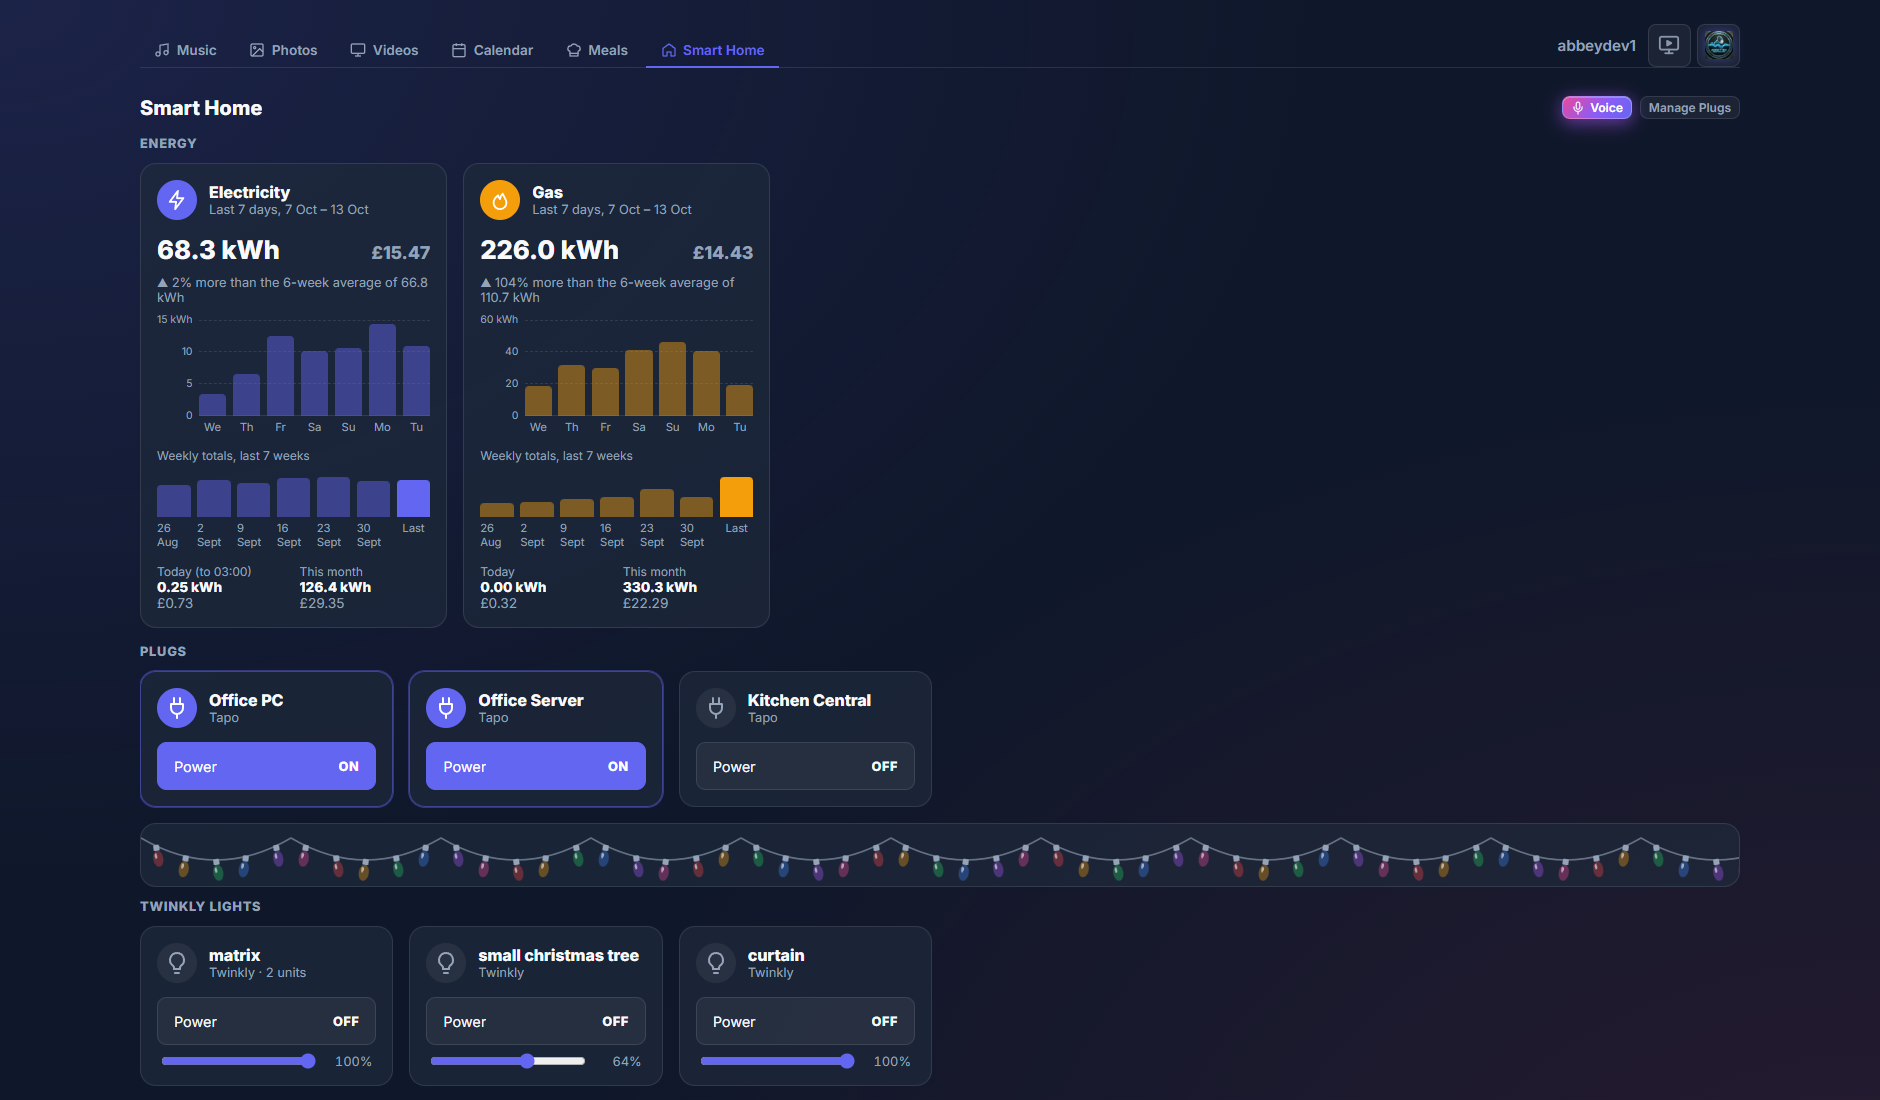
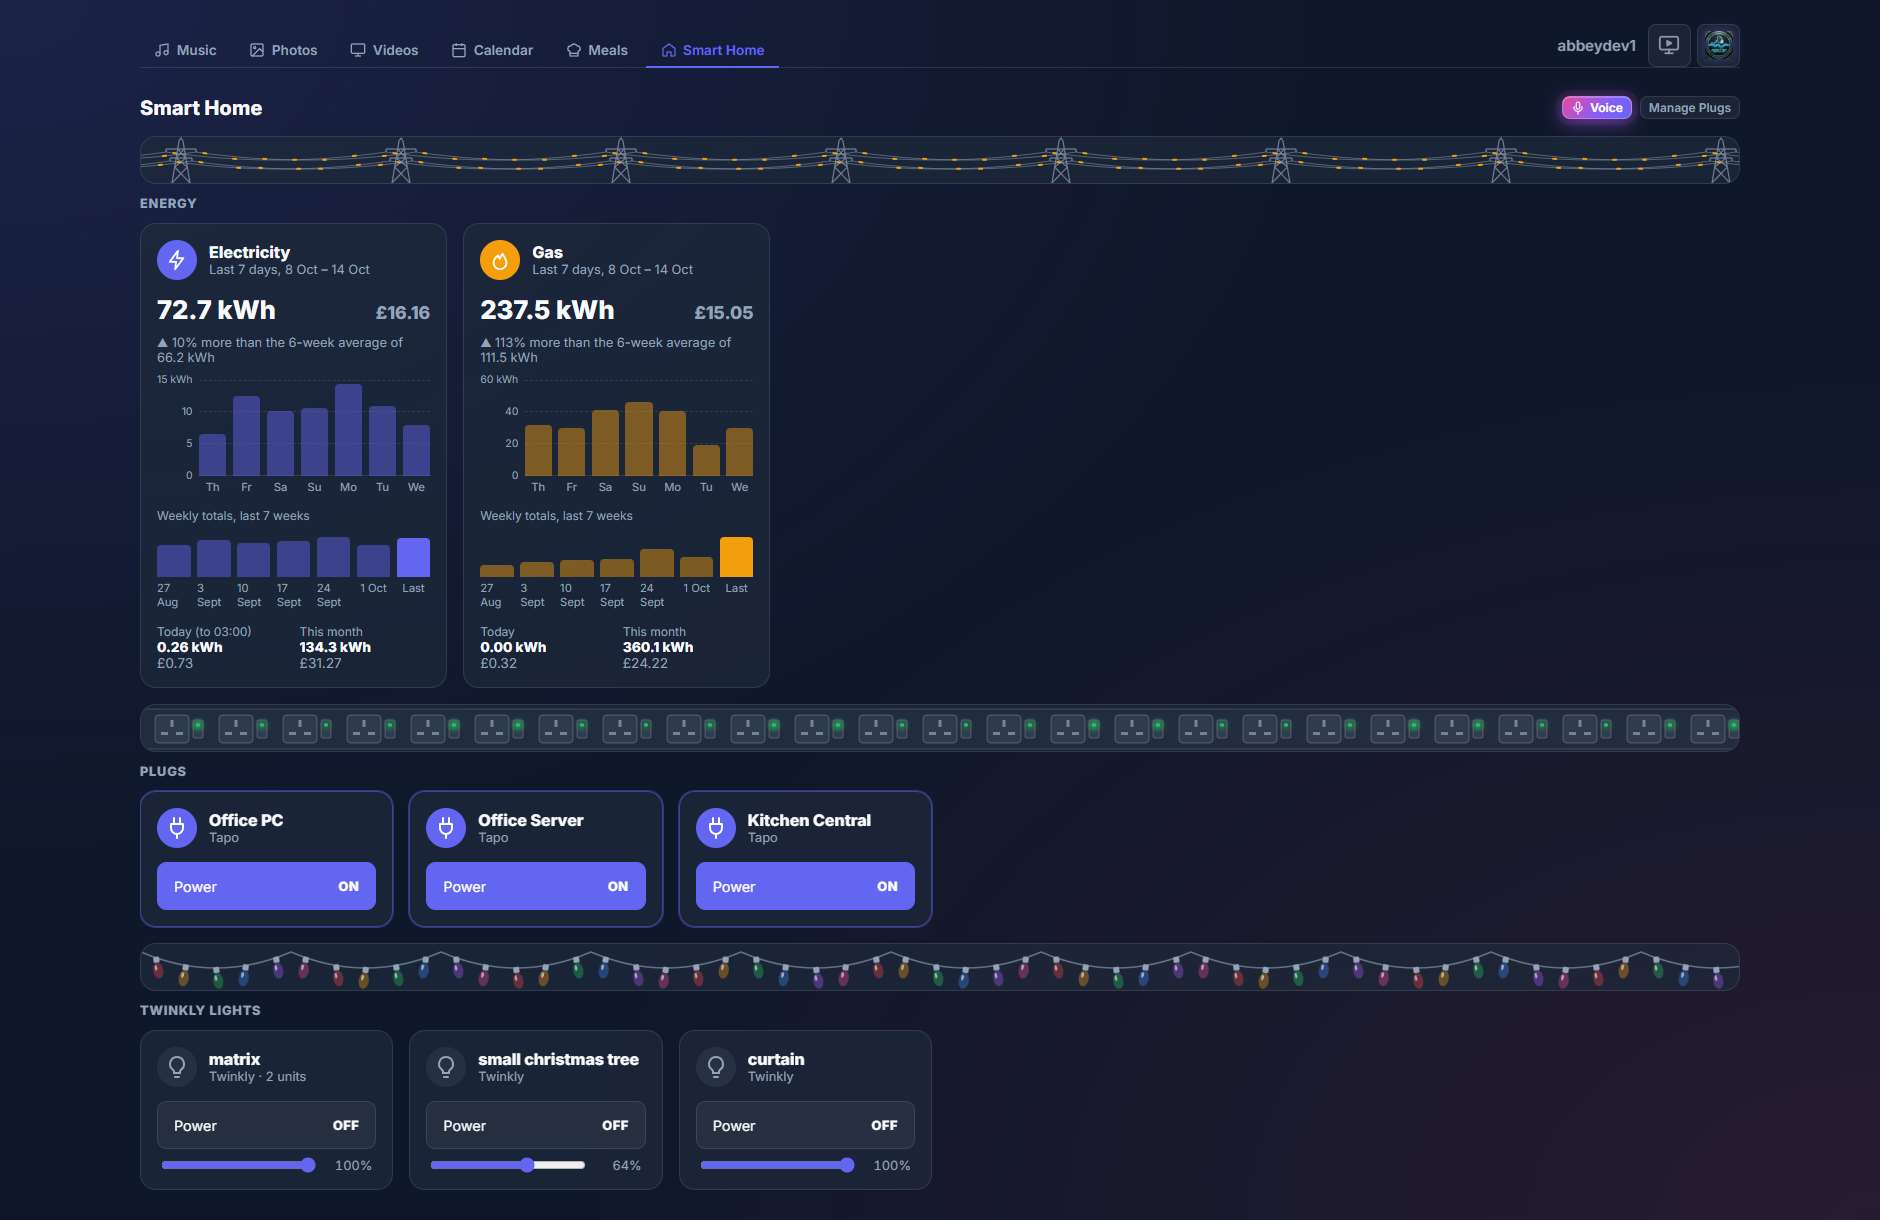
smart home page prettied up a bit.

diff --git a/public/app.js b/public/app.js
@@ -9885,9 +9885,10 @@ function plugStatusLine(p) {
 
 // A string of coloured bulbs hanging from a drooping wire, drawn wide and cropped to the section's width.
 // Each 150-unit span of wire is a quadratic curve whose control point sits midway, so x is linear in t.
+const BANNER_HEIGHT = 48;
 const LIGHT_COLOURS = ['#ef4444', '#f59e0b', '#22c55e', '#3b82f6', '#a855f7', '#ec4899'];
 function lightsBannerSvg() {
-    const width = 2400, span = 150, top = 14, sag = 22;
+    const width = 2400, span = 150, top = 8, sag = 16;
     const wireY = x => { const t = (x % span) / span; return top + 4 * sag * t * (1 - t); };
     let wire = `M0 ${top}`;
     for (let x = 0; x < width; x += span) wire += ` Q${x + span / 2} ${top + 2 * sag} ${x + span} ${top}`;
@@ -9901,9 +9902,49 @@ function lightsBannerSvg() {
             <ellipse class="bulb" cx="${x}" cy="${y + 13}" rx="5" ry="8" fill="${colour}"></ellipse>
             <ellipse cx="${x - 1.8}" cy="${y + 10}" rx="1.3" ry="2.6" fill="#fff" opacity="0.55"></ellipse></g>`;
     }
-    return `<svg viewBox="0 0 ${width} 64" height="64" width="100%" preserveAspectRatio="xMinYMid slice">
+    return `<svg viewBox="0 0 ${width} ${BANNER_HEIGHT}" height="${BANNER_HEIGHT}" width="100%" preserveAspectRatio="xMinYMid slice">
         <defs><filter id="bulb-glow-blur" x="-1" y="-1" width="3" height="3"><feGaussianBlur stdDeviation="4"></feGaussianBlur></filter></defs>
         <path class="lights-wire" d="${wire}"></path>${bulbs}</svg>`;
+}
+
+// A power strip of UK sockets, each with a rocker switch whose LED glows while any plug is on.
+function plugsBannerSvg() {
+    const width = 2400, pitch = 64;
+    let sockets = '';
+    for (let x = 14, n = 0; x < width; x += pitch, n++) {
+        const delay = -((n * 0.61) % 3).toFixed(2);
+        sockets += `<g transform="translate(${x} 10)">
+            <rect class="socket" width="34" height="28" rx="4"></rect>
+            <rect class="socket-slot" x="15.5" y="5" width="3" height="7" rx="0.5"></rect>
+            <rect class="socket-slot" x="6" y="17" width="7" height="3" rx="0.5"></rect>
+            <rect class="socket-slot" x="21" y="17" width="7" height="3" rx="0.5"></rect>
+            <rect class="socket" x="38" y="5" width="10" height="18" rx="2"></rect>
+            <circle class="socket-led-glow" cx="43" cy="10" r="5" style="animation-delay:${delay}s"></circle>
+            <circle class="socket-led" cx="43" cy="10" r="1.8"></circle></g>`;
+    }
+    return `<svg viewBox="0 0 ${width} ${BANNER_HEIGHT}" height="${BANNER_HEIGHT}" width="100%" preserveAspectRatio="xMinYMid slice">
+        <defs><filter id="socket-led-blur" x="-1" y="-1" width="3" height="3"><feGaussianBlur stdDeviation="2.5"></feGaussianBlur></filter></defs>
+        <rect class="plug-strip" x="-10" y="4" width="${width + 20}" height="40" rx="8"></rect>${sockets}</svg>`;
+}
+
+// A line of electricity pylons with current pulsing along the sagging cables between them.
+function energyBannerSvg() {
+    const width = 2400, pitch = 220, ground = 46, sag = 8;
+    const arms = [[-15, 12], [15, 12], [-11, 21], [11, 21]];
+    // Legs taper from 9 units either side at the ground to 2 at the top (y = 4)
+    const leg = (x, y, side) => x + side * (2 + 7 * (y - 4) / (ground - 4));
+    let towers = '', wires = '';
+    for (let x = 40; x < width + pitch; x += pitch) {
+        const brace = (y1, y2) => `M${leg(x, y1, -1)} ${y1}L${leg(x, y2, 1)} ${y2}M${leg(x, y1, 1)} ${y1}L${leg(x, y2, -1)} ${y2}`;
+        towers += `<path d="M${leg(x, ground, -1)} ${ground}L${x - 2} 4L${x} 1L${x + 2} 4L${leg(x, ground, 1)} ${ground}
+            M${x - 15} 12H${x + 15}M${x - 11} 21H${x + 11}${brace(12, 21)}${brace(21, 30)}${brace(30, ground)}
+            ${arms.map(([dx, y]) => `M${x + dx} ${y}v3`).join('')}"></path>`;
+        for (const [dx, y] of arms) wires += `M${x - pitch + dx} ${y + 3}Q${x - pitch / 2 + dx} ${y + 3 + 2 * sag} ${x + dx} ${y + 3}`;
+    }
+    return `<svg viewBox="0 0 ${width} ${BANNER_HEIGHT}" height="${BANNER_HEIGHT}" width="100%" preserveAspectRatio="xMinYMid slice">
+        <path class="energy-ground" d="M0 ${ground + 0.5}H${width}"></path>
+        <path class="energy-wire" d="${wires}"></path><path class="energy-flow" d="${wires}"></path>
+        <g class="energy-pylon">${towers}</g></svg>`;
 }
 
 function renderSmartHome() {
@@ -9915,6 +9956,9 @@ function renderSmartHome() {
     const lights = shown.filter(p => p.type === 'twinkly');
     const plugs = shown.filter(p => p.type !== 'twinkly');
     document.getElementById('smarthome-plugs').hidden = !plugs.length;
+    const plugsBanner = document.getElementById('smarthome-plugs-banner');
+    if (plugs.length && !plugsBanner.innerHTML) plugsBanner.innerHTML = plugsBannerSvg();
+    plugsBanner.classList.toggle('on', plugs.some(p => p.outlets.some(o => o.on)));
     document.getElementById('smarthome-grid').innerHTML = plugs.map(plugCard).join('');
     document.getElementById('smarthome-lights').hidden = !lights.length;
     document.getElementById('smarthome-lights-grid').innerHTML = lights.map(plugCard).join('');
@@ -9954,6 +9998,8 @@ function renderEnergy(data) {
     const grid = document.getElementById('smarthome-energy-grid');
     section.hidden = !data.configured;
     if (!data.configured) return;
+    const banner = document.getElementById('smarthome-energy-banner');
+    if (!banner.innerHTML) banner.innerHTML = energyBannerSvg();
     if (data.error) {
         grid.innerHTML = `<div class="plug-card unavailable"><div class="plug-card-status">Couldn't get meter readings: ${escapeHtml(data.error)}</div>
             <button type="button" class="btn-control btn-small" onclick="openPlugSettings()">Check Bright Login</button></div>`;

diff --git a/public/style.css b/public/style.css
@@ -8016,18 +8016,100 @@ input:checked+.slider:before {
     color: var(--text);
 }
 
-/* Twinkly: a string of coloured bulbs above the lights, glowing and twinkling while any are on */
-.lights-banner {
-    height: 64px;
+/* Decorative strips drawn above each smart home section (see the *BannerSvg functions in app.js) */
+.smarthome-banner {
+    height: 48px;
     overflow: hidden;
     border-radius: 1rem;
     background: var(--card-bg);
     border: 1px solid var(--card-border);
 }
 
-.lights-banner svg {
+.smarthome-banner svg {
     display: block;
 }
+
+/* Energy: pylons with current pulsing along the cables */
+.energy-pylon,
+.energy-wire,
+.energy-ground {
+    fill: none;
+    stroke: var(--text-muted);
+    stroke-linejoin: round;
+}
+
+.energy-pylon {
+    stroke-width: 1.2;
+    opacity: 0.7;
+}
+
+.energy-wire {
+    stroke-width: 1;
+    opacity: 0.5;
+}
+
+.energy-ground {
+    stroke-width: 1;
+    opacity: 0.25;
+}
+
+.energy-flow {
+    fill: none;
+    stroke: #f59e0b;
+    stroke-width: 2;
+    stroke-linecap: round;
+    stroke-dasharray: 3 57;
+    animation: energy-flow 1.6s linear infinite;
+}
+
+@keyframes energy-flow {
+    to { stroke-dashoffset: -60; }
+}
+
+/* Plugs: a power strip whose switch LEDs glow while any plug is on */
+.plug-strip {
+    fill: var(--text-muted);
+    fill-opacity: 0.06;
+    stroke: var(--text-muted);
+    stroke-opacity: 0.3;
+}
+
+.plugs-banner .socket {
+    fill: var(--text-muted);
+    fill-opacity: 0.12;
+    stroke: var(--text-muted);
+    stroke-opacity: 0.4;
+}
+
+.plugs-banner .socket-slot {
+    fill: var(--text-muted);
+    opacity: 0.7;
+}
+
+.plugs-banner .socket-led {
+    fill: var(--text-muted);
+    opacity: 0.4;
+    transition: fill 0.4s, opacity 0.4s;
+}
+
+.plugs-banner .socket-led-glow {
+    fill: #22c55e;
+    filter: url(#socket-led-blur);
+    opacity: 0;
+    transition: opacity 0.4s;
+}
+
+.plugs-banner.on .socket-led {
+    fill: #22c55e;
+    opacity: 1;
+}
+
+.plugs-banner.on .socket-led-glow {
+    opacity: 0.8;
+    animation: bulb-twinkle 3s ease-in-out infinite;
+}
+
+/* Twinkly: a string of coloured bulbs above the lights, glowing and twinkling while any are on */
 
 .lights-wire {
     fill: none;
@@ -8066,7 +8148,9 @@ input:checked+.slider:before {
 }
 
 @media (prefers-reduced-motion: reduce) {
-    .lights-banner.on .bulb-glow {
+    .lights-banner.on .bulb-glow,
+    .plugs-banner.on .socket-led-glow,
+    .energy-flow {
         animation: none;
     }
 }

diff --git a/public/index.html b/public/index.html
@@ -581,15 +581,17 @@
             </div>
             <div id="smarthome-status" class="smarthome-status"></div>
             <div id="smarthome-energy" class="smarthome-section" hidden>
+                <div id="smarthome-energy-banner" class="smarthome-banner energy-banner" aria-hidden="true"></div>
                 <h3>Energy</h3>
                 <div id="smarthome-energy-grid" class="energy-grid"></div>
             </div>
             <div id="smarthome-plugs" class="smarthome-section" hidden>
+                <div id="smarthome-plugs-banner" class="smarthome-banner plugs-banner" aria-hidden="true"></div>
                 <h3>Plugs</h3>
                 <div id="smarthome-grid" class="smarthome-grid"></div>
             </div>
             <div id="smarthome-lights" class="smarthome-section" hidden>
-                <div id="smarthome-lights-banner" class="lights-banner" aria-hidden="true"></div>
+                <div id="smarthome-lights-banner" class="smarthome-banner lights-banner" aria-hidden="true"></div>
                 <h3>Twinkly Lights</h3>
                 <div id="smarthome-lights-grid" class="smarthome-grid"></div>
             </div>
